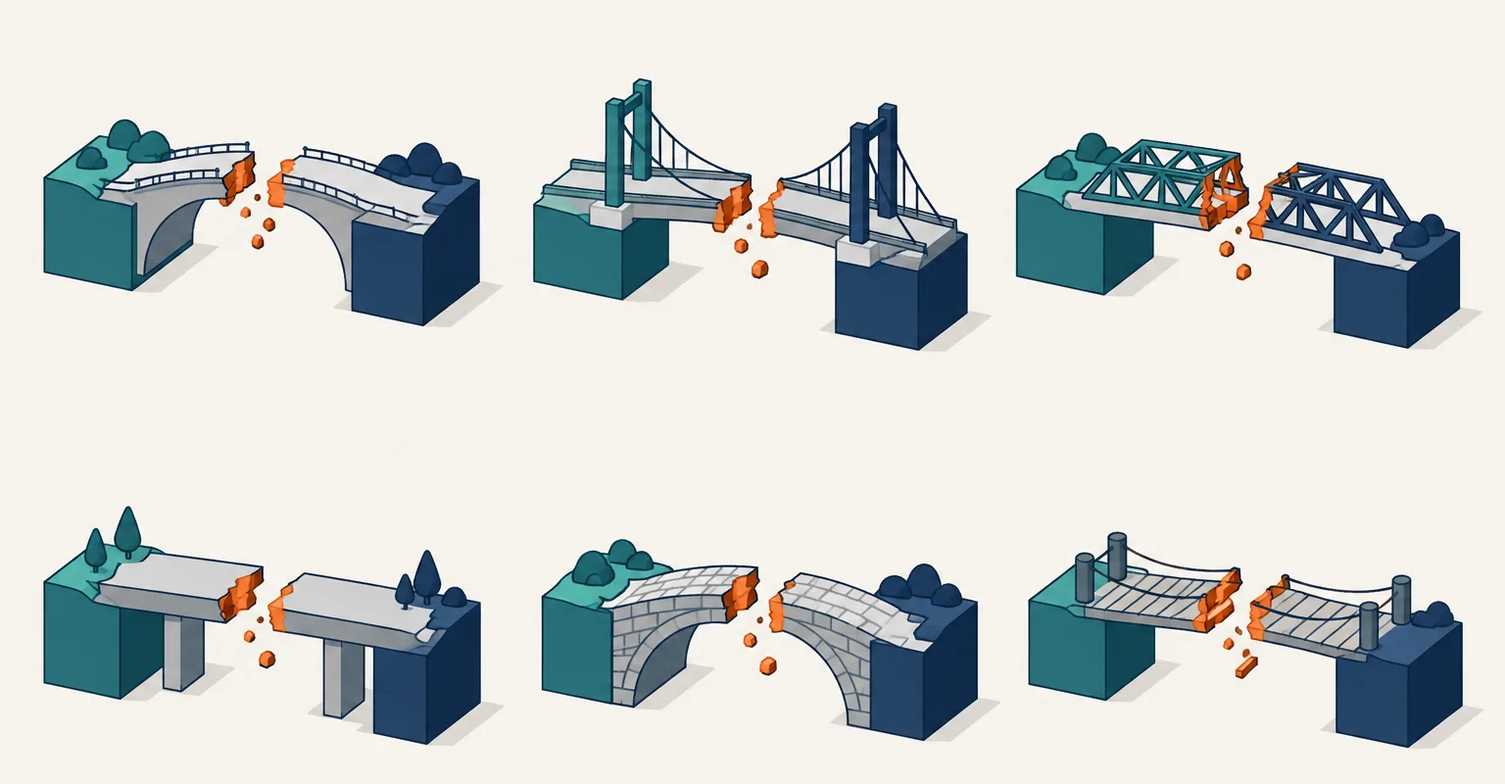
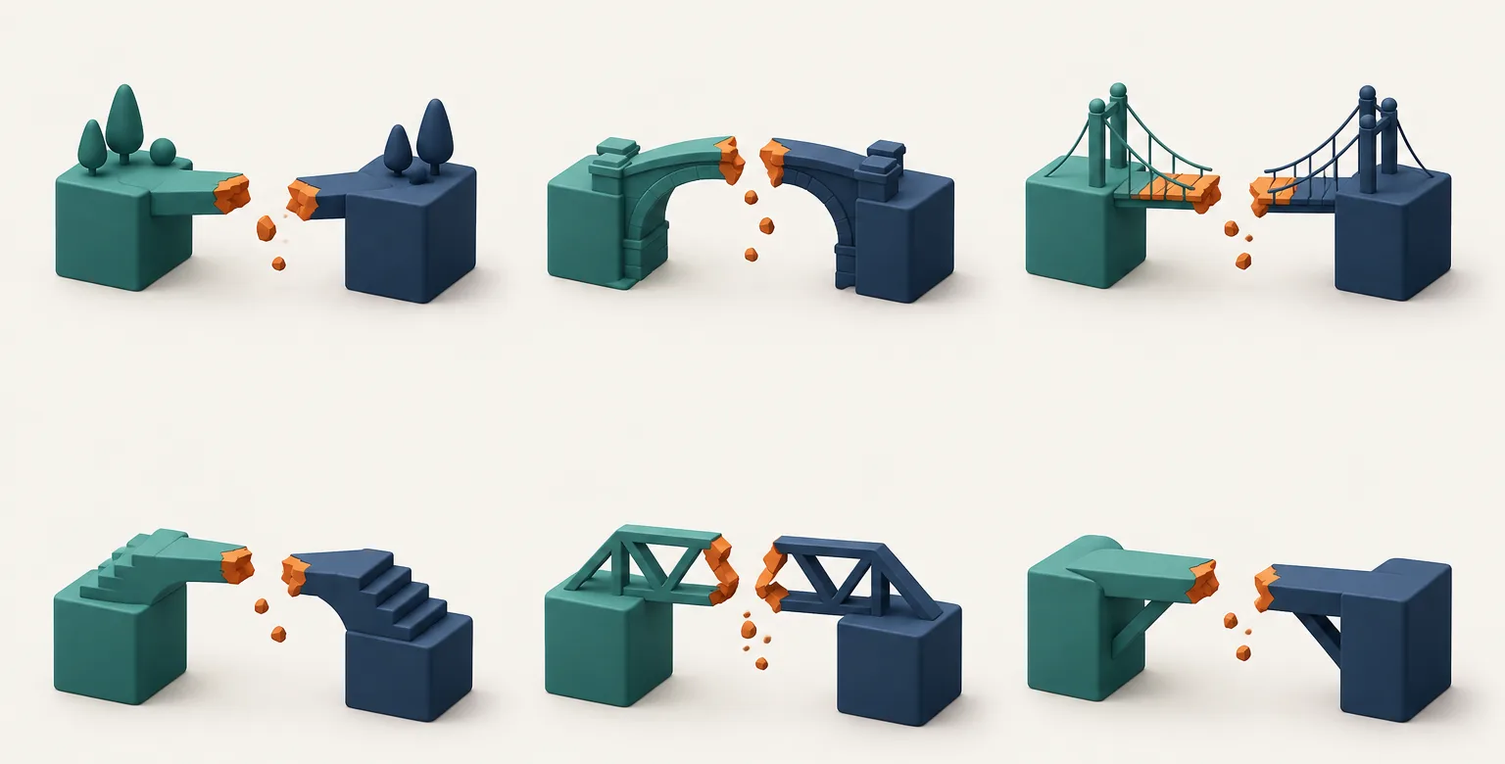
v3 시각화 1구간: 2~6장 점토 3D 일러스트·큰 숫자 중심으로 개편
- 2장 끊어진 다리 6개, 3장 시스템 4종 오브젝트+대표 숫자, 4장 전후 대비 그림 (GPT 이미지, 글자 없음)
- 5장 화면 캡처 확대+3단계 타임라인, 6장 큰 숫자 3개+기사 띠
- 표·카드 설명은 발표자 노트로 이동 (화면 글자 s2 343→62, s3 377→105, s4 220→68)
- verify.js: 개편한 장에 화면 글자 120자 상한 검사 추가, 전 장 글자 수 보고

Changed region(s): [[0.0312, 0.0923, 1.0, 0.4615], [0.0312, 0.6462, 1.0, 0.9846]]

diff --git a/index.html b/index.html
@@ -95,10 +95,27 @@ aside.notes{display:none}
 .bar-row b{font-family:"Noto Serif KR",serif;font-size:26px;color:var(--accent);text-align:right}
 /* 생성 이미지 무대 */
 .gen-stage{position:relative;margin:auto auto 0}
-.gen-stage img{display:block;width:100%;height:100%;-webkit-mask-image:linear-gradient(90deg,transparent,#000 2%,#000 98%,transparent),linear-gradient(180deg,transparent,#000 3%,#000 97%,transparent);-webkit-mask-composite:source-in;mask-image:linear-gradient(90deg,transparent,#000 2%,#000 98%,transparent),linear-gradient(180deg,transparent,#000 3%,#000 97%,transparent);mask-composite:intersect}
+.gen-stage img{display:block;width:100%;height:auto;-webkit-mask-image:linear-gradient(90deg,transparent,#000 2%,#000 98%,transparent),linear-gradient(180deg,transparent,#000 3%,#000 97%,transparent);-webkit-mask-composite:source-in;mask-image:linear-gradient(90deg,transparent,#000 2%,#000 98%,transparent),linear-gradient(180deg,transparent,#000 3%,#000 97%,transparent);mask-composite:intersect}
 .gl{position:absolute;transform:translateX(-50%);white-space:nowrap;padding:8px 22px;border-radius:999px;background:var(--white);border:1px solid var(--line);box-shadow:0 6px 18px rgba(19,33,59,.08);font-size:30px;font-weight:800;color:var(--ink);letter-spacing:-.02em}
 .gl b{color:var(--teal)}.gl i{font-style:normal;margin:0 12px;color:var(--accent)}
 .dark .gl{background:rgba(13,22,40,.72);border-color:rgba(255,255,255,.16);color:#fff}.dark .gl b{color:#7fd3c6}
+.hero{display:flex;flex-direction:column;align-items:flex-start;gap:6px}
+.hero strong{font-family:"Noto Serif KR",serif;font-size:128px;line-height:1;color:var(--accent);letter-spacing:-.03em;white-space:nowrap}
+.hero strong em{font-style:normal;font-size:.42em;margin-right:8px;font-family:"Noto Sans KR",sans-serif;font-weight:800}
+.hero span{font-size:30px;font-weight:800;color:var(--ink)}
+.hero small{font-size:22px;color:var(--muted)}
+.fine{font-size:18px;color:var(--muted);line-height:1.5}
+.dots{list-style:none;margin:0;padding:0 0 0 30px;border-left:3px solid var(--line);display:flex;flex-direction:column;gap:30px}
+.dots li{position:relative;display:flex;flex-direction:column;gap:4px}
+.dots li:before{content:"";position:absolute;left:-41px;top:6px;width:18px;height:18px;border-radius:50%;background:var(--paper);border:3px solid var(--teal)}
+.dots li.now:before{background:var(--accent);border-color:var(--accent)}
+.dots b{font-size:28px}.dots small{font-size:20px;color:var(--muted)}
+.sys-row{position:relative;height:220px}
+.sys{position:absolute;top:0;transform:translateX(-50%);display:flex;flex-direction:column;align-items:center;text-align:center;gap:4px;white-space:nowrap}
+.sys span{font-size:26px;font-weight:800;color:var(--ink)}
+.sys strong{font-family:"Noto Serif KR",serif;font-size:72px;line-height:1.1;color:var(--accent);letter-spacing:-.02em}
+.sys small{font-size:20px;color:var(--muted)}
+.gl-before b{color:var(--muted)}
 /* 컨트롤 */
 #controls{position:fixed;z-index:60;left:50%;bottom:14px;transform:translateX(-50%);display:flex;align-items:center;gap:4px;padding:6px 10px;border-radius:999px;background:rgba(13,22,40,.92);color:#fff;opacity:0;transition:opacity .2s}
 #controls.visible,#controls:hover,#controls:focus-within,body.panel-open #controls{opacity:1}
@@ -158,125 +175,89 @@ aside.notes{display:none}
 <section class="slide gen" id="s2" data-title="문제의식: 흐름의 단절">
   <div class="eyebrow">문제의식</div>
   <h2 style="margin-bottom:10px">행정의 어려움은 <span class="accent">흐름이 끊어진 데서</span> 생깁니다</h2>
-  <div class="gen-stage" style="width:1420px;aspect-ratio:1536/800">
+  <div class="gen-stage" style="width:1420px;aspect-ratio:1536/780">
     <img src="assets/gen/s02-bridges.webp" alt="여섯 쌍의 블록을 잇는 다리가 모두 가운데서 끊어진 그림">
-    <div class="gl" style="left:17.6%;top:2%"><b>현장</b><i>↔</i>사무실</div>
-    <div class="gl" style="left:50.1%;top:2%"><b>민원</b><i>↔</i>담당자</div>
-    <div class="gl" style="left:82.4%;top:2%"><b>데이터</b><i>↔</i>판단</div>
-    <div class="gl" style="left:17.6%;top:55%"><b>법령 원문</b><i>↔</i>경험</div>
-    <div class="gl" style="left:50.1%;top:55%"><b>작성자</b><i>↔</i>수합자</div>
-    <div class="gl" style="left:82.4%;top:55%"><b>전임자</b><i>↔</i>후임자</div>
+    <div class="gl" style="left:17.6%;top:1%"><b>현장</b><i>↔</i>사무실</div>
+    <div class="gl" style="left:49.8%;top:1%"><b>민원</b><i>↔</i>담당자</div>
+    <div class="gl" style="left:82.2%;top:1%"><b>데이터</b><i>↔</i>판단</div>
+    <div class="gl" style="left:17.6%;top:59%"><b>법령 원문</b><i>↔</i>경험</div>
+    <div class="gl" style="left:49.8%;top:59%"><b>작성자</b><i>↔</i>수합자</div>
+    <div class="gl" style="left:82.2%;top:59%"><b>전임자</b><i>↔</i>후임자</div>
   </div>
   <div class="src"><span>출처: 달인 신청서·증빙자료(NotebookLM 소스 §1) · 그림: AI 생성 일러스트</span><span class="pg">02</span></div>
   <aside class="notes"><p>행정의 어려움은 거창한 제도의 부족보다, 정보와 업무 흐름이 끊어진 데서 생긴다고 봤습니다. 여섯 개의 다리가 모두 가운데서 끊어져 있습니다.</p><p>현장과 사무실 — 현수막 위치·기간을 수기·엑셀로 관리해 민원이 들어온 뒤에야 현장을 확인했습니다(정당현수막 관리시스템).</p><p>민원과 담당자 — 같은 문의에도 담당자 경험에 따라 안내 내용과 판정 속도가 달라질 수 있었습니다(AdJudge 광고판정).</p><p>데이터와 판단 — 허가대장·심의·점검 정보가 여러 문서에 흩어지고, 200m 이격거리는 지도와 자료를 수작업으로 대조했습니다(허가·신고 DB, 200m 분석).</p><p>법령 원문과 담당자 경험 — 법령·조례·심의기준과 실제 민원사례가 연결되지 않고 개인의 기억에 머물렀습니다(판돌이 LLM wiki).</p><p>작성자와 수합자 — 팀별 한글파일을 받아 붙여넣고 순서·양식을 고치는 작업이 매 회차 반복됐습니다(격주 업무보고 수합판).</p><p>전임자와 후임자 — 2~3년 주기의 순환보직으로 법령 해석 경험과 민원 대응 암묵지가 사라졌습니다(판돌이 LLM wiki).</p><p>이 여섯 가지 단절을 하나씩 이어온 이야기입니다.</p></aside>
 </section>
 
 <!-- 03 성과 지도 -->
-<section class="slide" id="s3" data-title="전체 성과 지도">
+<section class="slide gen" id="s3" data-title="전체 성과 지도">
   <div class="eyebrow">전체 성과 지도</div>
-  <h2>서로 다른 시스템, 같은 문제의식</h2>
-  <div class="body">
-  <table class="t">
-    <thead><tr><th style="width:17%">시스템</th><th style="width:30%">기존 문제</th><th style="width:30%">전환</th><th>확인된 성과</th></tr></thead>
-    <tbody>
-      <tr><td><b>정당현수막 관리</b><br><a class="live" style="margin-top:8px;font-size:15px;padding:6px 12px" href="https://hbc.ai.kr/" target="_blank" rel="noopener">hbc.ai.kr ↗</a></td><td>위치·게시기간·철거 여부를 수기·엑셀로 관리</td><td>카카오맵 위치관리, 목록·통계·만료관리</td><td>기간 경과 민원 <b class="accent">약 70% 감소</b>, 금지 장소 설치 민원 <b class="accent">0건</b></td></tr>
-      <tr><td><b>옥외광고 3종</b><br><a class="live" style="margin-top:8px;font-size:15px;padding:6px 12px" href="https://signcheck.vercel.app/" target="_blank" rel="noopener">AdJudge ↗</a></td><td>법령·조례·심의기준 수동 대조, 대장 분산, 거리 수작업 검토</td><td>자동판정 · 허가·신고 통합 DB · 200m 거리 분석</td><td>검토시간 <b class="accent">10~15분 → 1분 이내</b>, 광고물 13종 판정</td></tr>
-      <tr><td><b>판돌이 LLM wiki</b></td><td>순환보직으로 법령 해석 경험과 암묵지 휘발</td><td>AI 초안 → 원문 검증 → 사람 승인 → wiki 승격</td><td>실제 업무 질의·응답 <b class="accent">265건</b>, 11개 유형 분류</td></tr>
-      <tr><td><b>격주 업무보고 수합판</b><br><a class="live" style="margin-top:8px;font-size:15px;padding:6px 12px" href="https://biweekly-report-board.vercel.app" target="_blank" rel="noopener">수합판 ↗</a></td><td>팀별 한글파일 제출·붙여넣기·양식 수정 반복</td><td>웹 입력 · 자동저장 · 자동수합 · PDF 출력</td><td>작성자는 덜 쓰고, 수합자는 덜 고치는 구조</td></tr>
-    </tbody>
-  </table>
-  <p style="margin-top:22px;font-size:20px">모두 별도 예산·외부 용역 없이 AI 코딩 도구·노코드·바이브 코딩으로 자체 구축</p>
+  <h2 style="margin-bottom:0">서로 다른 시스템, <span class="accent">같은 문제의식</span></h2>
+  <div class="gen-stage" style="width:1640px;margin:auto">
+    <img src="assets/gen/s03-systems.webp" alt="받침대 위의 네 가지 점토 오브젝트: 위치 핀이 꽂힌 지도, 문서와 법전을 단 저울, 승인 도장이 있는 펼친 책, 한 폴더로 모이는 종이들" style="aspect-ratio:1536/420">
+    <div class="sys-row">
+      <div class="sys" style="left:13%"><span>정당현수막 관리</span><strong>약 70%↓</strong><small>기간 경과 민원</small></div>
+      <div class="sys" style="left:37.8%"><span>옥외광고 3종</span><strong>1분 이내</strong><small>검토시간 10~15분에서</small></div>
+      <div class="sys" style="left:62.8%"><span>판돌이 LLM wiki</span><strong>265건</strong><small>실제 업무 질의·응답</small></div>
+      <div class="sys" style="left:86.6%"><span>격주 업무보고 수합판</span><strong>자동 수합</strong><small>덜 쓰고 덜 고치는 구조</small></div>
+    </div>
   </div>
-  <div class="src"><span>출처: NotebookLM 소스 §3 · 각 시스템 공개 URL</span><span class="pg">03</span></div>
-  <aside class="notes"><p>전체 그림입니다. 현장 업무인 정당현수막, 복잡한 법령 판단이 필요한 옥외광고, 그리고 조직 내부의 지식관리와 보고 업무까지 네 갈래입니다.</p><p>각 시스템은 지금도 접속 가능한 주소가 있어 질문 주시면 바로 보여드리겠습니다.</p></aside>
+  <div class="src"><span>출처: NotebookLM 소스 §3 · 각 시스템 공개 URL · 그림: AI 생성 일러스트</span><span class="pg">03</span></div>
+  <aside class="notes"><p>전체 그림입니다. 현장 업무인 정당현수막, 복잡한 법령 판단이 필요한 옥외광고, 그리고 조직 내부의 지식관리와 보고 업무까지 네 갈래입니다.</p><p>정당현수막은 위치·게시기간·철거 여부를 수기·엑셀로 관리하던 것을 카카오맵 위치관리와 목록·통계·만료관리로 바꿨고, 기간 경과 민원이 약 70% 줄고 금지 장소 설치 민원은 0건이 됐습니다.</p><p>옥외광고 3종은 법령·조례·심의기준 수동 대조와 흩어진 대장, 거리 수작업 검토를 자동판정·허가·신고 통합 DB·200m 거리 분석으로 바꿔 검토시간이 10~15분에서 1분 이내로 줄었고, 광고물 13종을 판정합니다.</p><p>판돌이 LLM wiki는 순환보직으로 사라지던 경험을 AI 초안 → 원문 검증 → 사람 승인 → wiki 승격 구조로 남기며, 실제 업무 질의·응답 265건을 11개 유형으로 분류했습니다.</p><p>격주 업무보고 수합판은 팀별 한글파일 제출·붙여넣기·양식 수정 반복을 웹 입력·자동저장·자동수합·PDF 출력으로 바꿔 작성자는 덜 쓰고 수합자는 덜 고치는 구조입니다.</p><p>모두 별도 예산·외부 용역 없이 AI 코딩 도구·노코드·바이브 코딩으로 자체 구축했습니다. 각 시스템은 지금도 접속 가능한 주소가 있어 질문 주시면 바로 보여드리겠습니다.</p></aside>
 </section>
 
 <!-- 04 현수막 기존 문제 -->
-<section class="slide" id="s4" data-title="정당현수막: 기존 문제">
-  <div class="eyebrow">01 · 정당현수막 관리시스템</div>
-  <h2>민원이 들어와야 움직이던 현수막 관리</h2>
-  <div class="body">
-  <div class="ba" style="margin-bottom:34px">
-    <div class="panel"><h3>기존 흐름</h3><p style="font-size:26px;color:var(--ink);font-weight:700;margin:0">민원 접수 → 현장 확인 → 수기·엑셀 기록</p><p style="margin:14px 0 0">설치 위치·게시기간·정당별 현황·철거 여부를 담당자의 경험과 기억에 의존</p></div>
-    <div class="center-arrow">→</div>
-    <div class="panel after"><h3>전환 후</h3><p style="font-size:26px;color:#fff;font-weight:700;margin:0">지도에서 만료 위치 확인 → 사전 정비</p><p style="margin:14px 0 0">현장에 나가기 전에 정비 대상을 선정</p></div>
+<section class="slide gen" id="s4" data-title="정당현수막: 기존 문제">
+  <div class="eyebrow">01 · 정당현수막</div>
+  <h2 style="margin-bottom:0">민원이 들어와야 움직이던 관리를 <span class="accent">먼저 찾아가는 관리</span>로</h2>
+  <div class="gen-stage" style="width:1500px;aspect-ratio:1536/710;margin:auto auto 0">
+    <img src="assets/gen/s04-before-after.webp" alt="왼쪽: 전화와 서류 사이 얽힌 고리 길을 맴도는 사람. 오른쪽: 지도 위 곧은 길을 따라 현수막 거치대로 향하는 사람">
+    <div class="gl gl-before" style="left:25%;top:2%"><b>기존</b><i>·</i>민원 접수 → 현장 확인 → 수기·엑셀</div>
+    <div class="gl" style="left:75%;top:2%"><b>전환 후</b><i>·</i>지도에서 만료 위치 확인 → 사전 정비</div>
   </div>
-  <table class="t">
-    <thead><tr><th style="width:22%">항목</th><th>시스템 도입 전</th><th>시스템 도입 후</th></tr></thead>
-    <tbody>
-      <tr><td><b>전체 현황 파악</b></td><td>1일 이상 소요</td><td>반나절 이내 확인 가능한 구조</td></tr>
-      <tr><td><b>위반 여부 확인</b></td><td>현장 방문 중심</td><td>시스템 기반 사전 정비 가능</td></tr>
-      <tr><td><b>자료 공유</b></td><td>수작업·엑셀 중심</td><td>통합 시스템 입력 기반</td></tr>
-      <tr><td><b>민원 대응</b></td><td>사후적·수동 대응</td><td>사전 정비 + 신속 대응</td></tr>
-    </tbody>
-  </table>
-  </div>
-  <div class="src"><span>출처: 달인 신청서·한국일보 동행취재 자료(NotebookLM 소스 §4 업무 방식 변화)</span><span class="pg">04</span></div>
-  <aside class="notes"><p>정당현수막은 설치 위치와 게시기간, 정당별 현황을 수기와 엑셀로 관리했습니다. 그래서 전체 현황을 보는 데만 하루 이상 걸렸고, 민원이 들어와야 현장에 나가는 구조였습니다.</p></aside>
+  <div class="src"><span>출처: 달인 신청서·한국일보 동행취재 자료(NotebookLM 소스 §4 업무 방식 변화) · 그림: AI 생성 일러스트</span><span class="pg">04</span></div>
+  <aside class="notes"><p>정당현수막은 설치 위치와 게시기간, 정당별 현황, 철거 여부를 수기와 엑셀로 관리했습니다. 담당자의 경험과 기억에 의존했고, 민원이 들어와야 현장에 나가는 구조였습니다. 왼쪽 그림처럼 같은 길을 계속 맴돌았습니다.</p><p>시스템 도입 후에는 지도에서 만료 위치를 확인하고, 현장에 나가기 전에 정비 대상을 선정합니다.</p><p>업무 방식 변화 — 전체 현황 파악: 1일 이상 소요 → 반나절 이내 확인 가능한 구조. 위반 여부 확인: 현장 방문 중심 → 시스템 기반 사전 정비. 자료 공유: 수작업·엑셀 중심 → 통합 시스템 입력 기반. 민원 대응: 사후적·수동 대응 → 사전 정비와 신속 대응.</p></aside>
 </section>
 
 <!-- 05 hbc 화면 -->
 <section class="slide" id="s5" data-title="정당현수막: 지도·목록·통계·만료">
-  <div class="eyebrow">01 · 정당현수막 관리시스템</div>
-  <h2 style="margin-bottom:30px">지도 한 화면에서 활성·만료 현수막을 구분합니다</h2>
+  <div class="eyebrow">01 · 정당현수막</div>
+  <h2 style="margin-bottom:28px">지도 한 화면에서 <span class="accent">만료 현수막</span>을 먼저 찾습니다</h2>
   <div class="body">
-  <div style="display:grid;grid-template-columns:1.45fr 1fr;gap:48px;align-items:start">
-    <figure class="shot"><img src="assets/screens/hbc-map.webp" alt="hbc.ai.kr 정당 현수막 지도 화면: 전체 현수막, 활성 정당 13, 활성 현수막 54, 만료 53 카드와 강남구 지도 위 정당별 마커" width="1365" height="760"><figcaption>hbc.ai.kr 공개 화면 — 활성 정당 13개 · 활성 54건 · 만료 53건</figcaption></figure>
+  <div style="display:grid;grid-template-columns:1200px 1fr;gap:60px;align-items:center">
+    <figure class="shot"><img src="assets/screens/hbc-map.webp" alt="hbc.ai.kr 정당 현수막 지도 화면: 전체 현수막, 활성 정당 13, 활성 현수막 54, 만료 53 카드와 강남구 지도 위 정당별 마커" width="1365" height="760"><figcaption>hbc.ai.kr 공개 화면</figcaption></figure>
     <div>
-      <h3 style="margin-bottom:18px">개발 과정</h3>
-      <div class="flow" style="flex-direction:column;gap:10px;margin-bottom:28px">
-        <div class="step"><b>1단계</b><span>Bubble 노코드 시제품</span><small>입력 구조·DB·지도 마커로 현장 흐름 검증</small></div>
-        <div class="step"><b>2단계</b><span>바이브 코딩 고도화</span><small>지도·목록·통계·만료 화면, 필터·엑셀 내보내기</small></div>
-        <div class="step"><b>3단계</b><span>통합 현수막 플랫폼</span><small>공공·집회시위 현수막까지 확대</small></div>
-      </div>
-      <div><span class="pill">카카오맵 위치 시각화</span><span class="pill">정당·행정동·상태 필터</span><span class="pill">주소·문구 검색</span><span class="pill">엑셀 내보내기</span><span class="pill">행정동별 2개 초과 강조</span></div>
-      <p style="margin-top:18px"><a class="live" href="https://hbc.ai.kr/" target="_blank" rel="noopener">라이브로 보기 · hbc.ai.kr ↗</a></p>
+      <ol class="dots">
+        <li><b>Bubble 노코드</b><small>시제품으로 현장 흐름 검증</small></li>
+        <li><b>바이브 코딩</b><small>지도·목록·통계·만료 관리</small></li>
+        <li class="now"><b>통합 플랫폼</b><small>공공·집회시위 현수막까지</small></li>
+      </ol>
+      <p style="margin-top:30px"><a class="live" href="https://hbc.ai.kr/" target="_blank" rel="noopener">라이브로 보기 · hbc.ai.kr ↗</a></p>
     </div>
   </div>
   </div>
   <div class="src"><span>출처: hbc.ai.kr 공개 화면(NotebookLM 소스 §4) · 화면 캡처는 증빙자료</span><span class="pg">05</span></div>
-  <aside class="notes"><p>처음엔 Bubble이라는 노코드 도구로 시제품을 만들어 현장 흐름이 맞는지부터 검증했고, 이후 AI와 대화하며 기능을 하나씩 만들어 지금의 hbc.ai.kr로 고도화했습니다.</p><p>지도에서 정당별 마커와 만료 현수막을 구분해 보고, 행정동별로 2개를 넘는 경우는 강조해서 보여줍니다. 담당자는 현장에 나가기 전에 정비 대상을 고를 수 있습니다.</p></aside>
+  <aside class="notes"><p>처음엔 Bubble이라는 노코드 도구로 시제품을 만들어 현장 흐름이 맞는지부터 검증했고, 이후 AI와 대화하며 기능을 하나씩 만들어 지금의 hbc.ai.kr로 고도화했습니다. 지금은 공공·집회시위 현수막까지 다루는 통합 플랫폼입니다.</p><p>지도에서 정당별 마커와 만료 현수막을 구분해 보고, 행정동별로 2개를 넘는 경우는 강조해서 보여줍니다. 활성 정당 13개, 활성 54건, 만료 53건이 한 화면에 나옵니다. 담당자는 현장에 나가기 전에 정비 대상을 고를 수 있습니다.</p><p>주요 기능: 카카오맵 위치 시각화, 정당·행정동·상태 필터, 주소·문구 검색, 엑셀 내보내기, 행정동별 2개 초과 강조.</p></aside>
 </section>
 
 <!-- 06 현수막 성과 -->
 <section class="slide" id="s6" data-title="정당현수막: 민원 감소 성과">
-  <div class="eyebrow">01 · 정당현수막 관리시스템 · 성과</div>
-  <h2 style="margin-bottom:26px">사후 대응을 데이터 기반 선제 관리로 바꾸자 <span class="accent">유형별 민원이 줄었습니다</span></h2>
+  <div class="eyebrow">01 · 정당현수막 · 성과</div>
+  <h2 style="margin-bottom:20px">선제 정비로 <span class="accent">민원이 줄었습니다</span></h2>
   <div class="body">
-  <div style="display:grid;grid-template-columns:1.05fr 1fr;gap:56px;align-items:start">
-    <div>
-      <svg viewBox="0 0 820 420" width="820" height="420" role="img" aria-label="월평균 민원 건수 비교. 기간 경과 11.3건에서 3.3건, 금지 장소 설치 3.3건에서 0건, 설치 방법 위반 7.7건에서 2.7건">
-        <g font-family="Noto Sans KR" font-size="19" fill="#5d6676">
-          <line x1="40" y1="330" x2="800" y2="330" stroke="#13213b" stroke-opacity=".25"/>
-          <!-- 기간 경과 -->
-          <rect x="80" y="85" width="90" height="245" rx="4" fill="#b9bfca"/><rect x="182" y="258" width="90" height="72" rx="4" fill="#c2410c"/>
-          <text x="125" y="72" text-anchor="middle" font-weight="700" fill="#2b3a55">11.3건</text><text x="227" y="245" text-anchor="middle" font-weight="800" fill="#c2410c">3.3건</text>
-          <!-- 금지 장소 -->
-          <rect x="330" y="258" width="90" height="72" rx="4" fill="#b9bfca"/><rect x="432" y="328" width="90" height="2" fill="#c2410c"/>
-          <text x="375" y="245" text-anchor="middle" font-weight="700" fill="#2b3a55">3.3건</text><text x="477" y="315" text-anchor="middle" font-weight="800" fill="#c2410c">0건</text>
-          <!-- 설치 방법 -->
-          <rect x="580" y="163" width="90" height="167" rx="4" fill="#b9bfca"/><rect x="682" y="271" width="90" height="59" rx="4" fill="#c2410c"/>
-          <text x="625" y="150" text-anchor="middle" font-weight="700" fill="#2b3a55">7.7건</text><text x="727" y="258" text-anchor="middle" font-weight="800" fill="#c2410c">2.7건</text>
-          <g font-size="22" font-weight="800" fill="#13213b" text-anchor="middle">
-            <text x="176" y="368">기간 경과</text><text x="426" y="368">금지 장소 설치</text><text x="676" y="368">설치 방법 위반</text>
-          </g>
-          <g font-size="20" font-weight="800" fill="#c2410c" text-anchor="middle">
-            <text x="176" y="400">약 70% 감소</text><text x="426" y="400">0건</text><text x="676" y="400">약 65% 감소</text>
-          </g>
-        </g>
-      </svg>
-      <p style="font-size:18px;margin:8px 0 0"><span style="display:inline-block;width:14px;height:14px;background:#b9bfca;border-radius:3px;vertical-align:-1px"></span> 도입 전 1~3월 월평균 &nbsp; <span style="display:inline-block;width:14px;height:14px;background:#c2410c;border-radius:3px;vertical-align:-1px"></span> 도입 후 4~6월 월평균</p>
-      <p style="font-size:18px;margin:6px 0 0">※ '기타' 유형 민원은 6.7건 → 12.7건으로 증가하여 함께 표기합니다.</p>
-    </div>
-    <div>
-      <figure class="shot" style="margin-bottom:16px"><img src="assets/screens/press-hankook.webp" alt="한국일보 기사 제목: 정당 현수막 늪에 빠진 지자체…공무원 개발 '강남스타일' 시스템 통했다, 2025.06.19" width="1090" height="318"></figure>
-      <figure class="shot" style="margin-bottom:18px"><img src="assets/screens/press-chosun.webp" alt="조선비즈 기사 제목: [정책 인사이트] '불법 현수막 관리 시스템' 개발한 강남구 공무원 &quot;3개월 독학, 비용은 6만원&quot;, 2025.05.10" width="1020" height="240"></figure>
-      <div class="note-box"><b>도입 문의 7개 기관</b> — 성북구 · 파주시 · 경남도청 · 세종시 · 동작구 · 김포시 · 대전 동구청<br>뉴시스: 강남구 AI 공모전 최우수상 「정당 현수막 관리 시스템」</div>
-    </div>
+  <div class="grid3" style="gap:40px;margin-bottom:26px">
+    <div class="hero"><strong><em>약</em>70%↓</strong><span>기간 경과</span><small>11.3건 → 3.3건</small></div>
+    <div class="hero"><strong>0건</strong><span>금지 장소 설치</span><small>3.3건 → 0건</small></div>
+    <div class="hero"><strong><em>약</em>65%↓</strong><span>설치 방법 위반</span><small>7.7건 → 2.7건</small></div>
+  </div>
+  <p class="fine" style="margin:0 0 34px">월평균 1~3월 → 4~6월 · '기타' 유형은 6.7건 → 12.7건 증가</p>
+  <div style="display:grid;grid-template-columns:1fr 1fr 0.8fr;gap:24px;align-items:center">
+    <figure class="shot"><img src="assets/screens/press-hankook.webp" alt="한국일보 기사 제목: 정당 현수막 늪에 빠진 지자체…공무원 개발 '강남스타일' 시스템 통했다, 2025.06.19" width="1090" height="318"></figure>
+    <figure class="shot"><img src="assets/screens/press-chosun.webp" alt="조선비즈 기사 제목: [정책 인사이트] '불법 현수막 관리 시스템' 개발한 강남구 공무원 &quot;3개월 독학, 비용은 6만원&quot;, 2025.05.10" width="1020" height="240"></figure>
+    <div class="hero" style="gap:2px"><strong style="font-size:72px;color:var(--teal)">7개 기관</strong><span style="font-size:24px">도입 문의</span></div>
   </div>
   </div>
   <div class="src"><span>출처: 민원 감소 근거표(NotebookLM 소스 §4) · 한국일보 2025.06.19 · 조선비즈 2025.05.10 · 뉴시스 2025.06.10</span><span class="pg">06</span></div>
-  <aside class="notes"><p>도입 전 1~3월과 도입 후 4~6월의 월평균을 비교했습니다. 기간 경과 민원은 11.3건에서 3.3건으로 약 70%, 설치 방법 위반은 약 65% 줄었고, 금지 장소 설치 민원은 0건이 됐습니다.</p><p>다만 '기타' 유형은 늘었기 때문에 숨기지 않고 함께 표기했습니다. 이 사례가 보도된 뒤 성북구, 파주시 등 7개 기관에서 도입 문의가 있었습니다.</p></aside>
+  <aside class="notes"><p>도입 전 1~3월과 도입 후 4~6월의 월평균을 비교했습니다. 기간 경과 민원은 11.3건에서 3.3건으로 약 70%, 설치 방법 위반은 7.7건에서 2.7건으로 약 65% 줄었고, 금지 장소 설치 민원은 0건이 됐습니다.</p><p>다만 '기타' 유형은 6.7건에서 12.7건으로 늘었기 때문에 숨기지 않고 함께 표기했습니다.</p><p>언론에도 소개됐습니다(한국일보 2025.06.19, 조선비즈 2025.05.10). 뉴시스 보도처럼 강남구 AI 공모전 최우수상을 받았고, 이후 성북구·파주시·경남도청·세종시·동작구·김포시·대전 동구청 등 7개 기관에서 도입 문의가 있었습니다.</p></aside>
 </section>
 
 <!-- 07 옥외광고 복잡성 -->

diff --git a/scripts/verify.js b/scripts/verify.js
@@ -72,6 +72,21 @@ for (const m of html.matchAll(/https?:\/\/([^/"'\s<>)]+)/g)) {
   if (!allowHosts.includes(m[1])) fail(`허용되지 않은 외부 호스트: ${m[1]}`);
 }
 
+// 8) 장당 화면 글자 수 (노트·출처·SVG 제외). v3 개편을 마친 장에만 상한 적용
+const TEXT_LIMIT = 120;
+const LIMITED = new Set(['s2', 's3', 's4', 's5', 's6']);
+const EXEMPT = new Set(['s21']); // 부록: 질의응답용 참고 화면
+const counts = sections.map((s) => {
+  const id = s.match(/id="([^"]+)"/)[1];
+  const n = s.replace(/<aside class="notes">[\s\S]*?<\/aside>/, '')
+    .replace(/<div class="src">[\s\S]*?<\/div>/, '')
+    .replace(/<svg[\s\S]*?<\/svg>/g, '')
+    .replace(/<[^>]+>/g, ' ').replace(/&[a-z]+;/g, ' ').replace(/\s+/g, '').length;
+  if (LIMITED.has(id) && !EXEMPT.has(id) && n > TEXT_LIMIT) fail(`${id}: 화면 글자 ${n}자 (상한 ${TEXT_LIMIT}자)`);
+  return `${id}:${n}`;
+});
+console.log(`화면 글자 수 — ${counts.join(' ')}`);
+
 if (errors.length) {
   console.error(`FAIL (${errors.length})\n- ` + errors.join('\n- '));
   process.exit(1);

diff --git a/assets/gen/prompts.md b/assets/gen/prompts.md
@@ -2,10 +2,18 @@
 
 생성 도구: Codex CLI 0.153.4 이미지 생성 기능(GPT 이미지). 모든 이미지는 글자·숫자·로고 없이 생성하고, 라벨과 수치는 HTML로 얹는다.
 
-## 공통 스타일 (2026-10-08 확정: 밝은 톤)
-SOLID flat warm off-white background exactly #f6f4ef edge to edge (no vignette, no gradient, no floor texture). Flat vector isometric illustration with thin navy outlines. Muted teal (#0f766e), navy (#13213b) and orange (#c2410c) accents; orange marks the problem point. Soft shadows, clean modern editorial style suited to a government presentation on a light page. ABSOLUTELY NO text, letters, numbers, signs, logos or UI anywhere.
+## 공통 스타일 (2026-10-08 확정: 밝은 톤 + 점토 3D)
+SOLID flat warm off-white background exactly #f6f4ef edge to edge (no vignette, no gradient, no floor texture). Soft matte clay 3D isometric objects, rounded edges, gentle soft shadows. Palette: muted teal (#0f766e), navy (#13213b), light gray, and orange (#c2410c) used only for highlights. Clean modern editorial style for a government presentation. ABSOLUTELY NO text, letters, numbers, signs with writing, logos, screens with UI, or human faces anywhere.
 
 ## s02-bridges.webp — 흐름의 단절
-- 원본 1536×1024 → 세로 90~890px 잘라 1536×800 webp(q82)
+- 원본 1536×1024 → 세로 120~900px 잘라 1536×780 webp(q82)
 - 프롬프트: Six pairs of small objects arranged in a clean 3-column x 2-row grid with generous even spacing; leave the area directly ABOVE each pair empty for labels. In each pair a left block and a right block are joined by a bridge that is BROKEN in the middle, the broken gap highlighted in orange with a few small falling fragments. Left blocks teal accents, right blocks navy accents. + 공통 스타일
-- 선택: B안(평면 벡터·윤곽선). 비교안 A(점토 질감 3D), 다크 톤 1안은 사용자 피드백("더 밝은 톤")으로 제외
+- 선택: A안(점토 3D). 다크 톤 시안 → "더 밝은 톤", 평면 벡터 B안 → "점토 3D 화풍으로" 사용자 피드백으로 제외
+
+## s03-systems.webp — 전체 성과 지도
+- 원본 1536×1024 → 세로 280~700px 잘라 1536×420 webp(q82)
+- 프롬프트: Four separate small clay objects in ONE horizontal row, evenly spaced in 4 equal columns, each on its own small round pedestal. 1) folded city map with three location pins and two tiny blank banner flags 2) balance scale with a blank document and a small blank law book 3) open blank book with a teal checkmark badge and an orange approval stamp 4) loose blank sheets flowing into one navy folder. + 공통 스타일
+
+## s04-before-after.webp — 현수막 관리 전후
+- 원본 1536×1024 → 세로 200~910px 잘라 1536×710 webp(q82)
+- 프롬프트: Split composition, top 18% empty for labels. LEFT (before, grays + small orange alerts): tangled looping path, ringing desk phone, scattered blank papers, small figure walking the loop. RIGHT (after, teal/navy): tidy city map block with pins (one orange), straight arrow path to a row of banner poles with blank banners. + 공통 스타일
